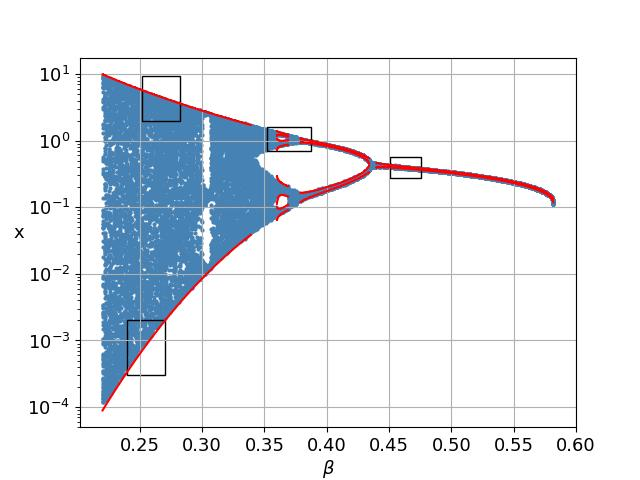
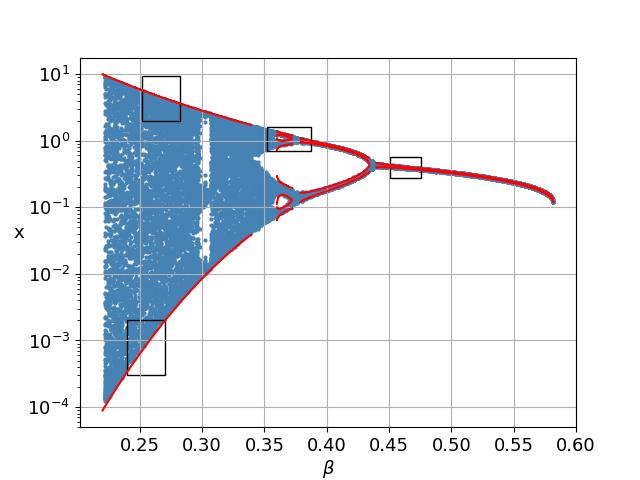
Upd

diff --git a/grpah/runner.py b/grpah/runner.py
@@ -1081,7 +1081,7 @@ def run_stochastic_sensitivity_b_noise():
         values=values,
         b_range=p_range,
         a=1,
-        borders=[[0.44, 0.582355932], [0.379, 0.435], [0.36, 0.37], [0.22, 0.34]],
+        borders=[[0.44, 0.582355932], [0.379, 0.435], [0.36, 0.373], [0.22, 0.34]],
         m=lambda a, b, x: functions_b_noise.m(a, b, x, epsilon),
         epsilon=epsilon,
         f=lambda b, x: function.f(1, b, x),
@@ -1098,15 +1098,6 @@ def run_stochastic_sensitivity_b_noise():
         # f=lambda b, x: functions.f_pb(1, b, x, epsilon)
     )
     chaos = convert_dict_to_lists(chaos)
-
-    # .adjust(top=0.92, bottom=0.15, left=0.175, right=0.95)
-    # .setup_x_label('t', font_size=25, label_pad=0)
-    # .setup_x_ticks(font_size=20)
-    # .setup_y_label('x', font_size=25, label_pad=12)
-    # .setup_y_ticks(font_size=20)
-
-    # Create a Rectangle patch
-    # rect = patches.Rectangle((50, 100), 40, 30, linewidth=1, edgecolor='r', facecolor='none')
 
     plotter = (Plotter()
                 # ._setup('$\\beta$', 'x', 'log', 'major', 'Bifurcation with $\\beta$-noise')
@@ -1195,7 +1186,7 @@ def run_stochastic_sensitivity_b_noise_2():
         values=values,
         b_range=p_range,
         a=1,
-        borders=[[0.44, 0.582355932], [0.379, 0.435], [0.36, 0.37], [0.22, 0.34]],
+        borders=[[0.44, 0.582355932], [0.379, 0.435], [0.36, 0.373], [0.22, 0.34]],
         m=lambda a, b, x: functions_b_noise.m(a, b, x, 0.001),
         epsilon=0.001,
         f=lambda b, x: function.f(1, b, x),
